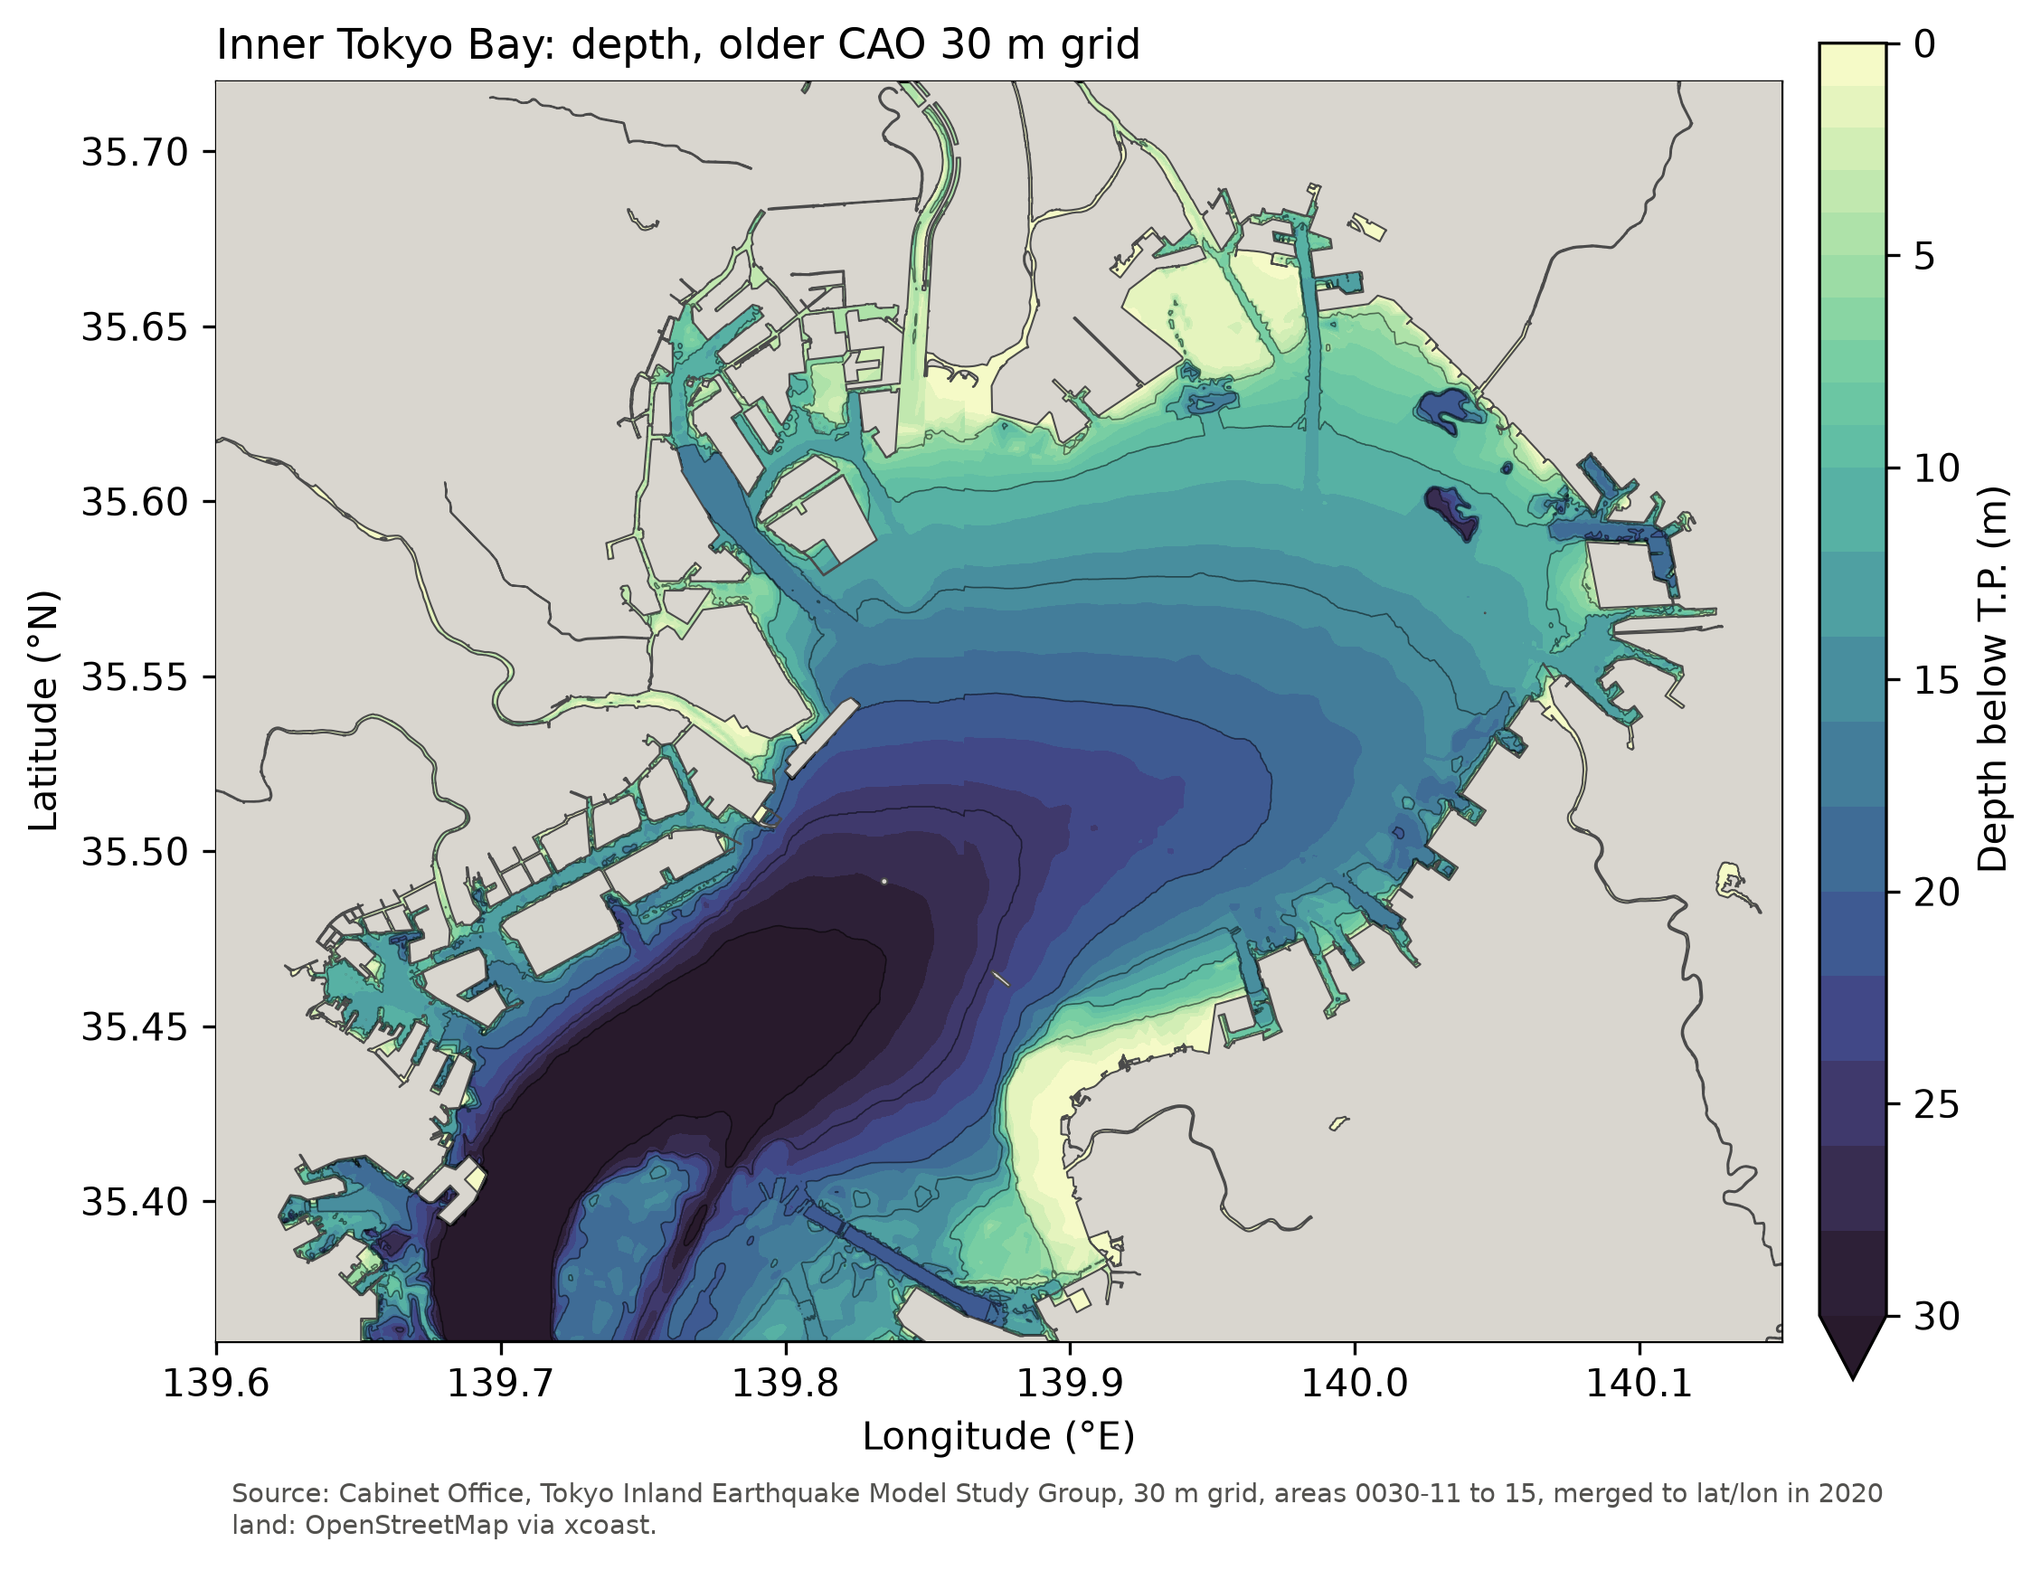
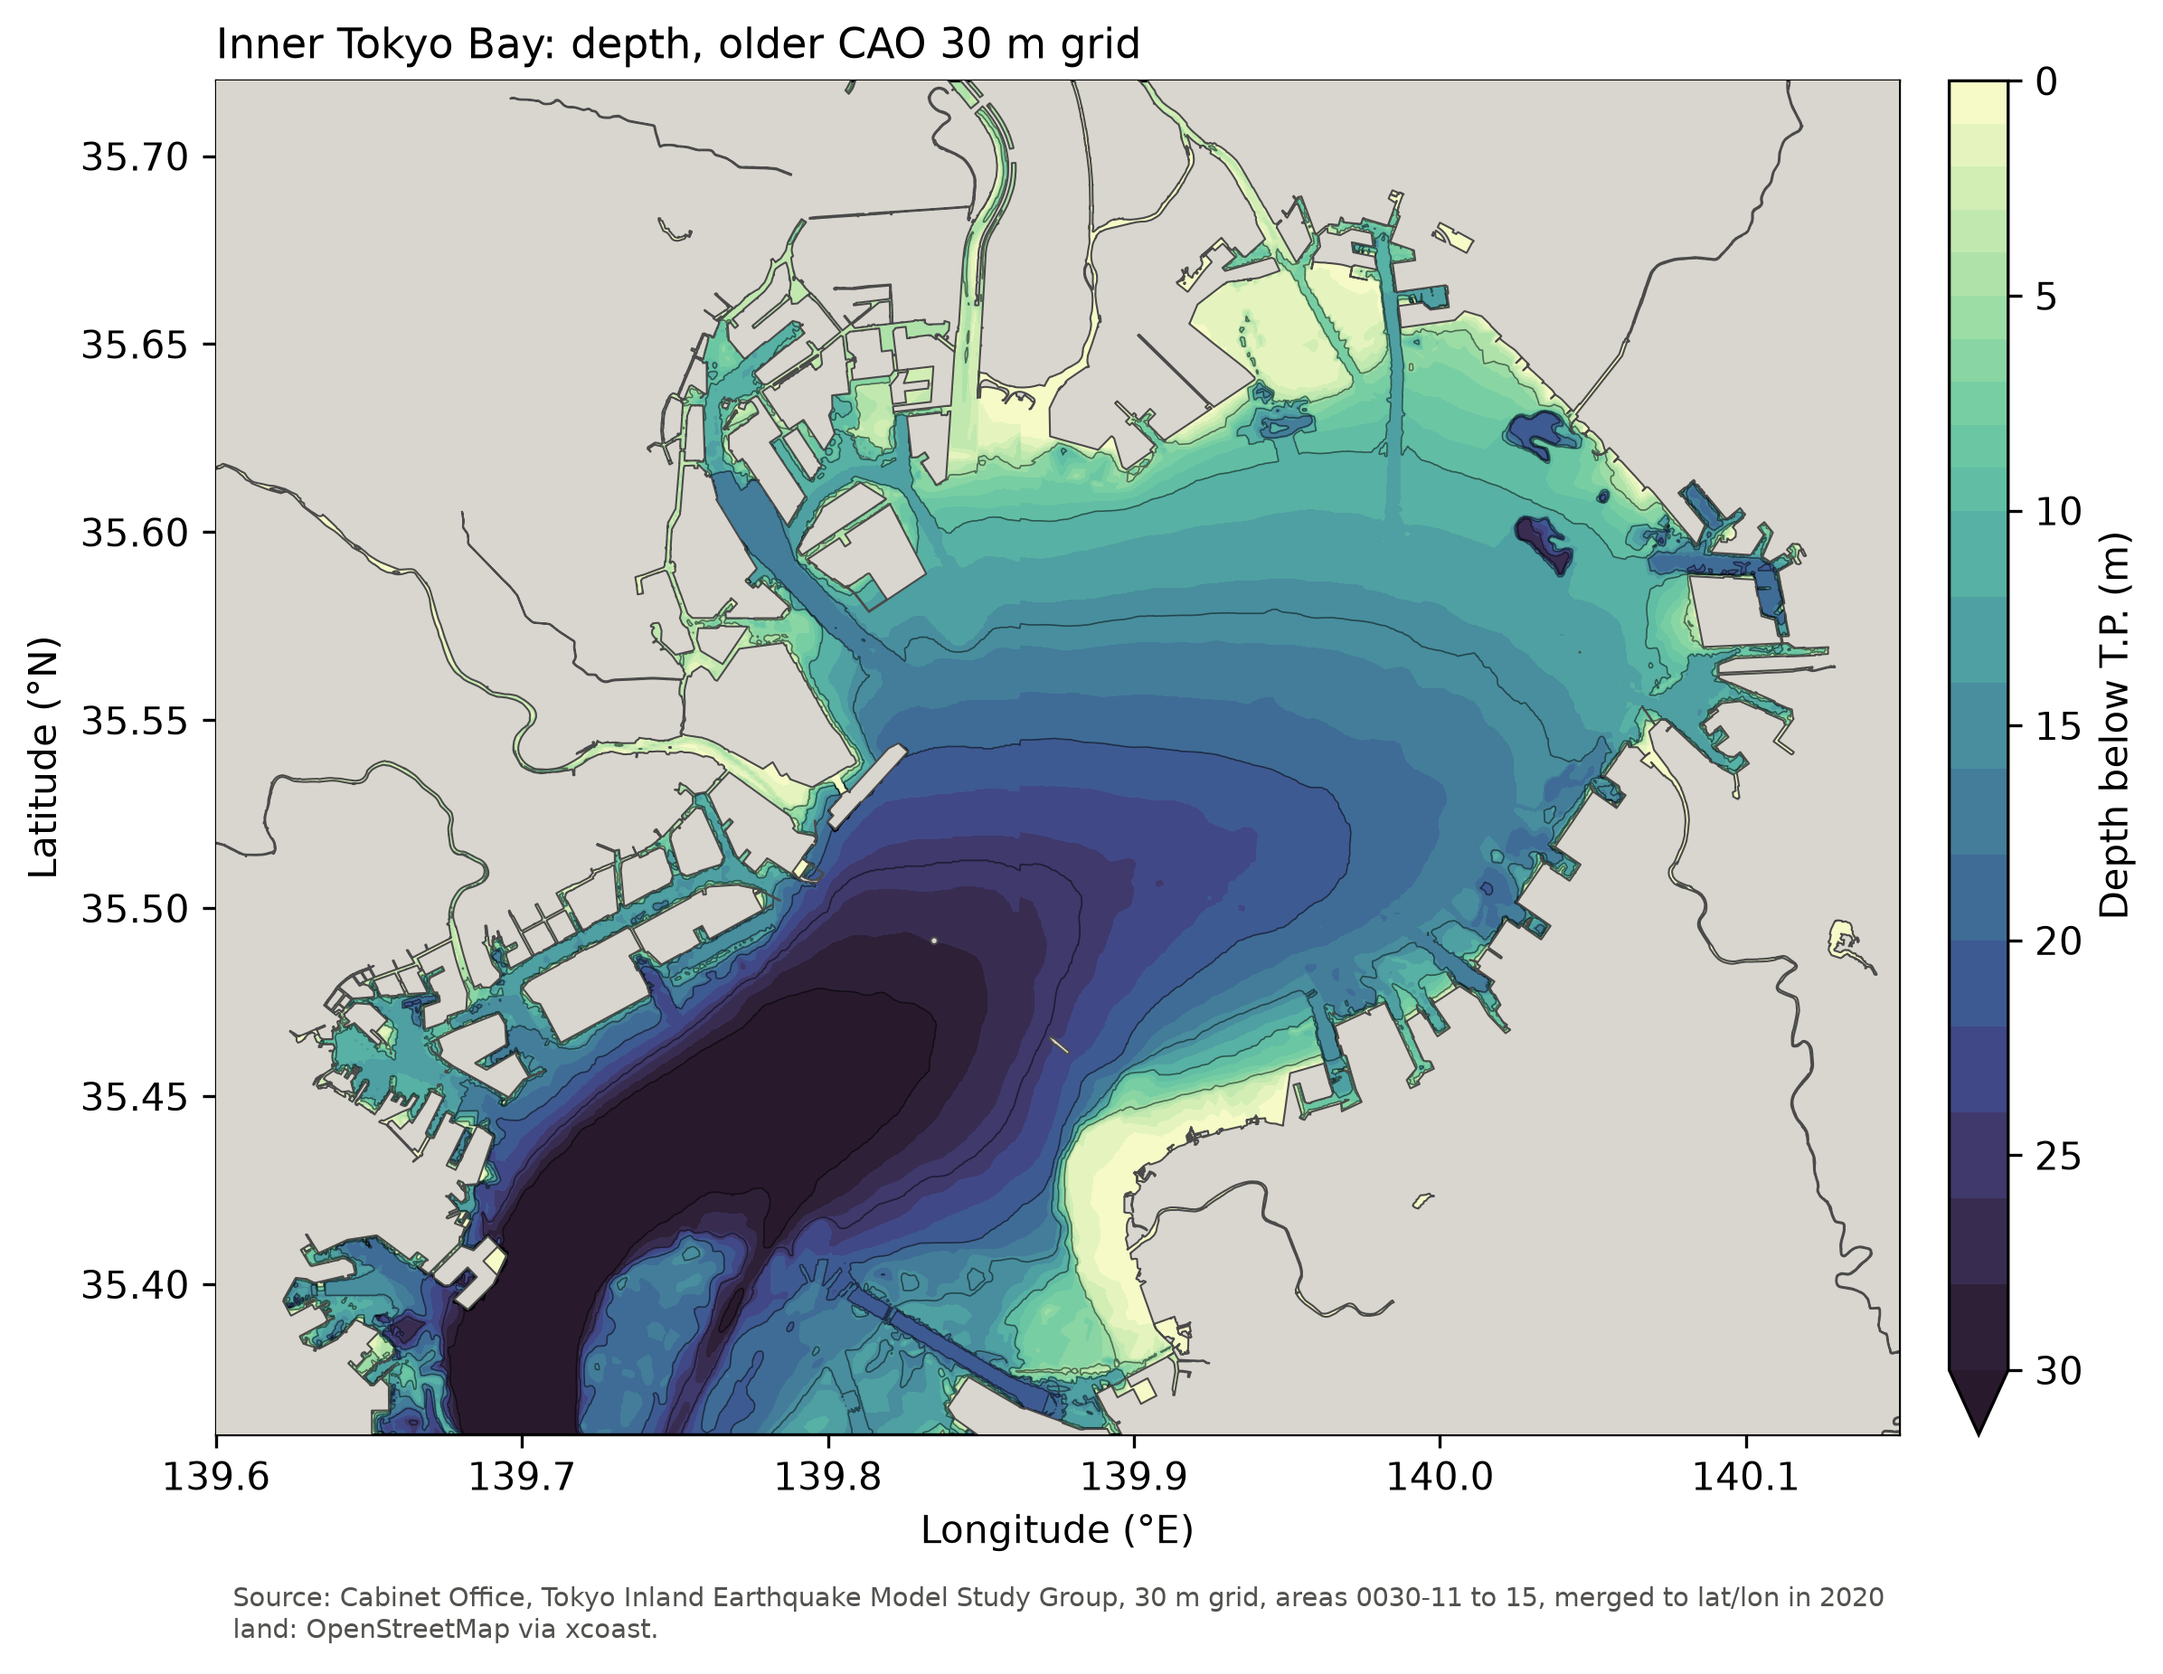
Inner bay depth map from the Endo (2020) 50 m grid; colour bar as tall as the map
endo50m_to_lonlat.py regrids the 50 m water cells (JGD2011 zone IX, grid_code =
elevation) to lon/lat NetCDF beside the source and prints the difference from
M7001: about 1.0 m shallower throughout (10-30 m: median -0.97 m, RMS 1.62 m),
so its datum is about 1 m below T.P. (chart datum or A.P.); the colour bar
says the datum is not stated. The frame is the data extent (south edge 35.418 N).
plot_depth_map.py gains --cbar-label and draws the colour bar in an inset axis;
the M7001 and older CAO 30 m maps are redrawn with it.

Claude-Session: https://claude.ai/code/session_01MhU6iDzaQKBG9cKa3nrSvL

diff --git a/scripts/endo50m_to_lonlat.py b/scripts/endo50m_to_lonlat.py
@@ -1,0 +1,98 @@
+#!/usr/bin/env python3
+"""Regrid the Endo (2020) 50 m Tokyo Bay bathymetry points onto a lon/lat NetCDF.
+
+Source: ``$DATA_DIR/geodata/bathymetry/tokyobay_endo/Raster_data/50m_JGD_point_water.shp``,
+the water cells of the 50 m grid built by M. Endo (2020-07, see
+``東京湾地形データの編集手順.docx`` in the same directory): the earlier 50 m Tokyo Bay data
+(inner bay to Kisarazu, dredged pits included), shifted to the GSI coastline and merged
+with the Sanbanze survey of FY2011 (Chiba Prefecture), IDW-interpolated to 50 m cell
+centres in JGD2011 plane rectangular zone IX (EPSG:6677). ``grid_code`` = elevation (m, +up);
+the vertical datum is not stated in the document.
+
+Output: ``elevation`` (+up, m) on a regular lon/lat grid (nearest 50 m cell), NaN on land
+and outside the data. Also prints the depth difference from the M7001 T.P. DEM over cells
+where M7001 is 10-30 m deep, as a datum check.
+
+    python scripts/endo50m_to_lonlat.py --out $DATA_DIR/geodata/bathymetry/tokyobay_endo/nc/endo_50m_lonlat.nc
+"""
+
+from __future__ import annotations
+
+import argparse
+from pathlib import Path
+
+import numpy as np
+import pyogrio
+import xarray as xr
+from pyproj import Transformer
+
+from topobathy import config
+
+CELL = 50.0
+
+
+def main() -> int:
+    ap = argparse.ArgumentParser(description=__doc__,
+                                 formatter_class=argparse.RawDescriptionHelpFormatter)
+    src_default = (config.get_bathymetry_dir() / "tokyobay_endo" / "Raster_data"
+                   / "50m_JGD_point_water.shp")
+    ap.add_argument("--src", type=Path, default=src_default)
+    ap.add_argument("--spacing", type=float, default=0.0005, help="lon/lat spacing (deg)")
+    ap.add_argument("--out", type=Path, required=True)
+    args = ap.parse_args()
+
+    df = pyogrio.read_dataframe(args.src, columns=["grid_code", "POINT_X", "POINT_Y"],
+                                read_geometry=False)
+    x, y, elev = (df[c].to_numpy(float) for c in ("POINT_X", "POINT_Y", "grid_code"))
+    z = -elev  # depth, +down
+    x0, y0 = x.min(), y.min()
+    ix = np.rint((x - x0) / CELL).astype(int)
+    iy = np.rint((y - y0) / CELL).astype(int)
+    assert np.allclose(x0 + ix * CELL, x, atol=0.5) and np.allclose(y0 + iy * CELL, y, atol=0.5)
+    grid = np.full((iy.max() + 1, ix.max() + 1), np.nan)
+    grid[iy, ix] = z
+
+    to_ll = Transformer.from_crs("EPSG:6677", "EPSG:4326", always_xy=True)
+    to_xy = Transformer.from_crs("EPSG:4326", "EPSG:6677", always_xy=True)
+    lon_c, lat_c = to_ll.transform(x, y)
+    d = args.spacing
+    lon = np.arange(np.floor(lon_c.min() / d) * d, lon_c.max() + d, d)
+    lat = np.arange(np.floor(lat_c.min() / d) * d, lat_c.max() + d, d)
+    LON, LAT = np.meshgrid(lon, lat)
+    X, Y = to_xy.transform(LON, LAT)
+    jx = np.rint((X - x0) / CELL).astype(int)
+    jy = np.rint((Y - y0) / CELL).astype(int)
+    ok = (jx >= 0) & (jx < grid.shape[1]) & (jy >= 0) & (jy < grid.shape[0])
+    depth = np.full(LON.shape, np.nan)
+    depth[ok] = grid[jy[ok], jx[ok]]
+
+    ds = xr.Dataset(
+        {"elevation": (("lat", "lon"), (-depth).astype("float32"),
+                       {"units": "m", "positive": "up",
+                        "long_name": "elevation (negative = depth), vertical datum not stated"})},
+        coords={"lon": ("lon", lon, {"units": "degrees_east"}),
+                "lat": ("lat", lat, {"units": "degrees_north"})},
+        attrs={"source": str(args.src),
+               "history": "50 m JGD2011 zone IX cells (EPSG:6677) -> lon/lat, nearest cell; "
+                          "scripts/endo50m_to_lonlat.py (topobathy)",
+               "note": "Endo (2020) edit of the earlier 50 m Tokyo Bay data + Sanbanze FY2011 survey"})
+    args.out.parent.mkdir(parents=True, exist_ok=True)
+    ds.to_netcdf(args.out, encoding={"elevation": {"zlib": True, "complevel": 4}})
+    print(f"wrote {args.out}: {len(df)} points; lon {lon_c.min():.4f}-{lon_c.max():.4f}, "
+          f"lat {lat_c.min():.4f}-{lat_c.max():.4f}; depth {np.nanmin(z):.1f} to {np.nanmax(z):.1f} m")
+
+    m7 = config.get_bathymetry_dir() / "M7001" / "TP" / "M7001_dem_tokyobay_50m.nc"
+    ref = -xr.open_dataset(m7)["elevation"].interp(
+        lon=xr.DataArray(lon_c, dims="p"), lat=xr.DataArray(lat_c, dims="p"),
+        method="nearest").to_numpy()
+    for lo, hi in ((10, 30), (2, 10)):
+        sel = np.isfinite(ref) & (ref >= lo) & (ref <= hi)
+        dd = z[sel] - ref[sel]
+        print(f"Endo 50 m vs M7001 (M7001 depth {lo}-{hi} m T.P.): n={sel.sum()} "
+              f"median={np.median(dd):+.2f} m mean={dd.mean():+.2f} m "
+              f"RMS={np.sqrt((dd ** 2).mean()):.2f} m (positive = Endo deeper)")
+    return 0
+
+
+if __name__ == "__main__":
+    raise SystemExit(main())

diff --git a/scripts/plot_depth_map.py b/scripts/plot_depth_map.py
@@ -61,6 +61,8 @@ def main() -> int:
     #---> jsasaki 2026-10-23: plot other grids (e.g. the 2020 CAO 30 m lat/lon copy, Band1)
     ap.add_argument("--var", default="elevation", help="elevation variable (+up)")
     ap.add_argument("--source-note", default=None, help="source line under the map")
+    # jsasaki 2026-10-23: grids whose vertical datum is not T.P.
+    ap.add_argument("--cbar-label", default="Depth below T.P. (m)")
     #<--- jsasaki 2026-10-23
     ap.add_argument("--out", type=Path, required=True)
     args = ap.parse_args()
@@ -98,9 +100,12 @@ def main() -> int:
     ax.set_ylabel("Latitude (°N)")
     ax.set_title(args.title, loc="left", fontsize=11)
     # jsasaki 2026-10-23: keep the colour bar linear in depth with unequal steps
-    cb = fig.colorbar(cf, ax=ax, shrink=0.85, pad=0.02, spacing="proportional",
+    # jsasaki 2026-10-23: colour bar as tall as the map, also for wide frames
+    cax = ax.inset_axes([1.03, 0.0, 0.035, 1.0])
+    cb = fig.colorbar(cf, cax=cax, spacing="proportional",
                       ticks=np.arange(0, args.vmax + 1, 5))
-    cb.set_label("Depth below T.P. (m)")
+    # jsasaki 2026-10-23: label from --cbar-label
+    cb.set_label(args.cbar_label)
     cb.ax.invert_yaxis()  # deeper downwards
     # jsasaki 2026-10-23: source line can be given for non-M7001 grids
     note = args.source_note or (f"Source: M7001 (JHA) converted to T.P., GMT surface DEM "
